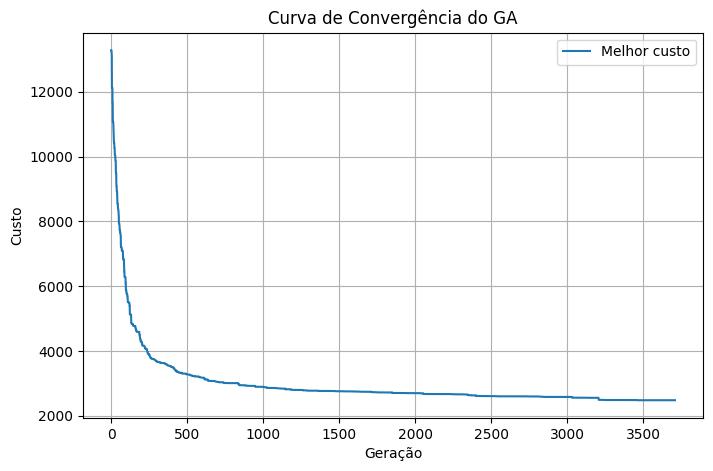
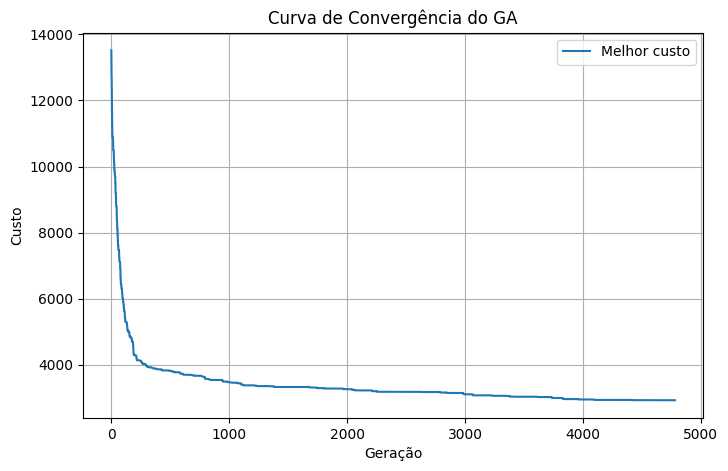
feat: alterando lógica do Npontos

diff --git a/src/main.py b/src/main.py
@@ -1,8 +1,10 @@
 #!/usr/bin/env python3
 """
-main.py: GA básico para Problema do Caixeiro-Viajante 3D usando numpy e matplotlib.
+main.py: GA básico para Problema do Caixeiro-Viajante 3D usando numpy e matplotlib,
+com amostragem de N pontos por região (30 <= N <= 60).
+
 Salve este arquivo e chame:
-    python main.py --data_path data/CaixeiroGrupos.csv --origin_idx 0
+    python main.py --data_path data/CaixeiroGrupos.csv --origin_idx 0 --n_per_region 40
 
 Argumentos configuráveis para parâmetros do GA, tolerância, etc.
 """
@@ -59,7 +61,6 @@ def compute_distance_matrix(coords):
     coords: array Nx3
     Retorna matriz NxN com distâncias Euclidianas 3D.
     """
-    # Usar broadcasting para cálculo eficiente
     diff = coords[:, np.newaxis, :] - coords[np.newaxis, :, :]
     dist = np.sqrt(np.sum(diff**2, axis=2))
     return dist
@@ -75,7 +76,6 @@ def nearest_neighbor_route(origin, dist_matrix):
     route = []
     current = origin
     while unvisited:
-        # escolhe vizinho mais próximo
         next_city = min(unvisited, key=lambda city: dist_matrix[current, city])
         route.append(next_city)
         unvisited.remove(next_city)
@@ -101,8 +101,7 @@ def tournament_selection(population, costs, k):
     """
     selected_idx = random.sample(range(len(population)), k)
     best_idx = min(selected_idx, key=lambda idx: costs[idx])
-    # Retornar uma cópia para segurança
-    return population[best_idx][:]
+    return population[best_idx][:]  # cópia
 
 def order_crossover(parent1, parent2):
     """
@@ -110,18 +109,15 @@ def order_crossover(parent1, parent2):
     - Escolhe dois pontos de corte i<j aleatórios.
     - Copia o segmento parent1[i:j+1] para child1 na mesma posição; preenche restante com genes de parent2 na ordem, pulando duplicados.
     - Análogo para child2.
-    parent1, parent2: listas de mesma dimensão.
-    Retorna child1, child2 (listas).
     """
     size = len(parent1)
-    # Escolher dois pontos distintos
     i, j = sorted(random.sample(range(size), 2))
     child1 = [None] * size
     child2 = [None] * size
     # Copiar segmento
     child1[i:j+1] = parent1[i:j+1]
     child2[i:j+1] = parent2[i:j+1]
-    # Preencher child1 com genes de parent2
+    # Preencher child1
     fill_pos = (j + 1) % size
     idx2 = (j + 1) % size
     while None in child1:
@@ -130,7 +126,7 @@ def order_crossover(parent1, parent2):
             child1[fill_pos] = gene
             fill_pos = (fill_pos + 1) % size
         idx2 = (idx2 + 1) % size
-    # Preencher child2 com genes de parent1
+    # Preencher child2
     fill_pos = (j + 1) % size
     idx1 = (j + 1) % size
     while None in child2:
@@ -144,17 +140,16 @@ def order_crossover(parent1, parent2):
 def mutate_swap(individual):
     """
     Swap mutation: escolhe duas posições aleatórias e troca.
-    individual: lista de índices. Modifica in-place.
     """
     a, b = random.sample(range(len(individual)), 2)
     individual[a], individual[b] = individual[b], individual[a]
 
 def run_ga(origin, dist_matrix,
-           pop_size=200, max_gens=5000,
+           pop_size=100, max_gens=500,
            tournament_k=3, crossover_prob=0.9,
-           mutation_prob=0.05,
+           mutation_prob=0.01,
            elitism=True, elite_size=1,
-           no_improve_window=250,
+           no_improve_window=50,
            use_accept_criterion=True, tol=0.05,
            verbose=False):
     """
@@ -169,58 +164,43 @@ def run_ga(origin, dist_matrix,
     - no_improve_window: janela para parada sem melhora.
     - use_accept_criterion: se True, para caso atinja custo <= custo_NN * (1 - tol).
     - tol: tolerância relativa (e.g. 0.05 para 5% de melhora em relação a heurística NN).
-    Retorna: best_ind, best_cost, history (lista de best_cost por geração), gen_atual, flag_aceitavel (bool).
     """
     n = dist_matrix.shape[0]
-    # Base de índices de pontos exceto origem
     base = [i for i in range(n) if i != origin]
     size_perm = len(base)
-    # Inicializar população aleatória
     population = [random.sample(base, size_perm) for _ in range(pop_size)]
-    # Calcular custos iniciais
     costs = [compute_route_cost(ind, origin, dist_matrix) for ind in population]
-    # Melhor global
     best_cost = min(costs)
     best_ind = population[costs.index(best_cost)][:]
     history = [best_cost]
     gens_no_improve = 0
-    # Heurística NN para critério aceitável, se ativado
     cost_ref = None
     if use_accept_criterion:
         nn_route = nearest_neighbor_route(origin, dist_matrix)
         cost_ref = compute_route_cost(nn_route, origin, dist_matrix)
         if verbose:
             print(f"[GA] Custo referência NN = {cost_ref:.4f}, tol = {tol*100:.1f}%")
-    # Loop de gerações
     for gen in range(1, max_gens+1):
         new_pop = []
-        # Elitismo: copiar top elite_size indivíduos
         if elitism and elite_size > 0:
             sorted_idx = sorted(range(len(population)), key=lambda idx: costs[idx])
             for idx in sorted_idx[:elite_size]:
-                # copia para nova pop
                 new_pop.append(population[idx][:])
-        # Gerar descendentes até completar
         while len(new_pop) < pop_size:
-            # Seleção
             p1 = tournament_selection(population, costs, tournament_k)
             p2 = tournament_selection(population, costs, tournament_k)
-            # Crossover
             if random.random() < crossover_prob:
                 c1, c2 = order_crossover(p1, p2)
             else:
                 c1, c2 = p1[:], p2[:]
-            # Mutação swap
             if random.random() < mutation_prob:
                 mutate_swap(c1)
             if random.random() < mutation_prob and len(new_pop) + 1 < pop_size:
                 mutate_swap(c2)
-            # Adicionar
             new_pop.append(c1)
             if len(new_pop) < pop_size:
                 new_pop.append(c2)
         population = new_pop
-        # Calcular custos
         costs = [compute_route_cost(ind, origin, dist_matrix) for ind in population]
         current_best = min(costs)
         if current_best < best_cost - 1e-12:
@@ -230,29 +210,22 @@ def run_ga(origin, dist_matrix,
         else:
             gens_no_improve += 1
         history.append(best_cost)
-        # Logs periódicos
         if verbose and gen % 50 == 0:
             print(f"[GA] Geração {gen}: melhor custo = {best_cost:.4f}")
-        # Critério de parada: solução aceitável
         if use_accept_criterion and cost_ref is not None:
             if best_cost <= cost_ref * (1 - tol):
                 if verbose:
                     print(f"[GA] Solução aceitável atingida na geração {gen}, custo {best_cost:.4f}")
                 return best_ind, best_cost, history, gen, True
-        # Parada sem melhora
         if gens_no_improve >= no_improve_window:
             if verbose:
                 print(f"[GA] Parada sem melhora em {no_improve_window} gerações (geração {gen}), custo {best_cost:.4f}")
             return best_ind, best_cost, history, gen, False
-    # Se chegou aqui, atingiu max_gens
     if verbose:
         print(f"[GA] Atingiu max_gens ({max_gens}), melhor custo = {best_cost:.4f}")
     return best_ind, best_cost, history, max_gens, False
 
 def plot_convergence(history, show_plot=True, save_path=None):
-    """
-    Plota curva de convergência: melhor custo por geração.
-    """
     plt.figure(figsize=(8,5))
     plt.plot(history, label='Melhor custo')
     plt.xlabel('Geração')
@@ -267,17 +240,11 @@ def plot_convergence(history, show_plot=True, save_path=None):
     plt.close()
 
 def plot_route_3d(coords, route, origin_idx, show_plot=True, save_path=None):
-    """
-    Plota rota em 3D: coords é array Nx3, route é lista de índices incluindo origin no início e no fim.
-    """
     fig = plt.figure(figsize=(8,6))
     ax = fig.add_subplot(111, projection='3d')
-    # plot pontos
     ax.scatter(coords[:,0], coords[:,1], coords[:,2], color='gray', s=10, alpha=0.5)
-    # plot linha da rota
     route_coords = coords[route]
     ax.plot(route_coords[:,0], route_coords[:,1], route_coords[:,2], color='red', linewidth=2)
-    # destacar origem
     ax.scatter(coords[origin_idx,0], coords[origin_idx,1], coords[origin_idx,2],
                color='blue', s=50, label='Origem')
     ax.set_xlabel('X'); ax.set_ylabel('Y'); ax.set_zlabel('Z')
@@ -295,9 +262,12 @@ def main():
                         help='Caminho para o CSV de pontos (colunas X,Y,Z,grupo)')
     parser.add_argument('--origin_idx', type=int, default=0,
                         help='Índice do ponto de origem (linha no CSV, começando em 0)')
+    # Novo argumento: número de pontos a selecionar por região (30 <= n <= 60)
+    parser.add_argument('--n_per_region', type=int, default=None,
+                        help='Número de pontos a selecionar por região (30 <= n <= 60). Se None, usa todos do CSV.')
     # Parâmetros do GA
     parser.add_argument('--pop_size', type=int, default=200, help='Tamanho da população')
-    parser.add_argument('--max_gens', type=int, default=5000, help='Número máximo de gerações')
+    parser.add_argument('--max_gens', type=int, default=8000, help='Número máximo de gerações')
     parser.add_argument('--tournament_k', type=int, default=3, help='Tamanho do torneio')
     parser.add_argument('--crossover_prob', type=float, default=0.9, help='Probabilidade de crossover')
     parser.add_argument('--mutation_prob', type=float, default=0.01, help='Probabilidade de mutação (swap) por indivíduo')
@@ -319,37 +289,88 @@ def main():
 
     # Carregar CSV
     data = load_csv_numpy(args.data_path)
-    # Separar colunas
-    coords = data[:, 0:3]
-    grupo = data[:, 3].astype(int)
-    n_points = coords.shape[0]
-    print(f"[Main] Total de pontos carregados: {n_points}")
-    # Contagem por grupo
-    unique, counts = np.unique(grupo, return_counts=True)
-    print("[Main] Contagem de pontos por grupo:")
+    coords_all = data[:, 0:3]
+    grupo_all = data[:, 3].astype(int)
+    n_total = coords_all.shape[0]
+    print(f"[Main] Total de pontos carregados: {n_total}")
+    # Contagem por grupo no CSV original
+    unique, counts = np.unique(grupo_all, return_counts=True)
+    print("[Main] Contagem de pontos por grupo (arquivo original):")
     for u, c in zip(unique, counts):
         print(f"  Grupo {u}: {c} pontos")
-    # Validar origin_idx
-    origin = args.origin_idx
-    if origin < 0 or origin >= n_points:
-        print(f"[Erro] origin_idx inválido: {origin}. Deve estar em [0, {n_points-1}].")
+
+    # Validar origin_idx no conjunto original
+    origin_orig = args.origin_idx
+    if origin_orig < 0 or origin_orig >= n_total:
+        print(f"[Erro] origin_idx inválido: {origin_orig}. Deve estar em [0, {n_total-1}].")
         sys.exit(1)
-    print(f"[Main] Origem definida: índice {origin}, coordenadas {coords[origin]}")
+    print(f"[Main] Origem escolhida (no CSV original): índice {origin_orig}, coordenadas {coords_all[origin_orig]}")
+
+    # Amostragem por região, se solicitado
+    if args.n_per_region is not None:
+        n_pr = args.n_per_region
+        if not (30 <= n_pr <= 60):
+            print(f"[Erro] n_per_region deve estar entre 30 e 60. Recebido: {n_pr}")
+            sys.exit(1)
+        # Para cada grupo, selecionar exatamente n_pr pontos
+        selected_indices = []
+        # Verificar se origin pertence a algum grupo: precisamos incluí-lo
+        origin_group = grupo_all[origin_orig]
+        for grp in unique:
+            inds = np.where(grupo_all == grp)[0].tolist()
+            if len(inds) < n_pr:
+                print(f"[Erro] Grupo {grp} tem apenas {len(inds)} pontos no CSV, menor que n_per_region={n_pr}.")
+                sys.exit(1)
+            # Se origin está neste grupo, inclua origin e amostre os demais
+            if grp == origin_group:
+                others = [i for i in inds if i != origin_orig]
+                # Sample n_pr-1 de others
+                sampled = random.sample(others, n_pr - 1)
+                sampled.append(origin_orig)
+            else:
+                sampled = random.sample(inds, n_pr)
+            selected_indices.extend(sampled)
+        # Agora, selected_indices contém n_pr de cada grupo, total = n_pr * num_grupos
+        # Opcional: embaralhar a lista para não ficar em blocos, mas não é necessário
+        selected_indices = sorted(selected_indices)  # ou manter ordem original; a ordem aqui não importa para coords
+        # Subset dos dados
+        coords = coords_all[selected_indices]
+        grupo = grupo_all[selected_indices]
+        # Precisamos remapear origin_idx para o novo índice no subset
+        # Encontrar posição de origin_orig em selected_indices
+        origin_idx = selected_indices.index(origin_orig)
+        print(f"[Main] Após amostragem, total de pontos usado: {coords.shape[0]} ({n_pr} por grupo).")
+        print(f"[Main] Novo índice da origem no conjunto amostrado: {origin_idx}")
+    else:
+        # Usa todos
+        coords = coords_all
+        grupo = grupo_all
+        origin_idx = origin_orig
+        print("[Main] Usando todos os pontos do CSV (nenhuma amostragem por região).")
+
+    n_points = coords.shape[0]
+    # Mostrar contagem por grupo no conjunto usado
+    unique2, counts2 = np.unique(grupo, return_counts=True)
+    print("[Main] Contagem de pontos por grupo (conjunto usado):")
+    for u, c in zip(unique2, counts2):
+        print(f"  Grupo {u}: {c} pontos")
+    print(f"[Main] Total de pontos usados para o GA: {n_points}")
+    print(f"[Main] Origem efetiva: índice {origin_idx}, coordenadas {coords[origin_idx]}")
 
     # Matriz de distâncias
     dist_matrix = compute_distance_matrix(coords)
 
     # Heurística Nearest Neighbor para referência
     if args.use_accept_criterion:
-        nn_route = nearest_neighbor_route(origin, dist_matrix)
-        nn_cost = compute_route_cost(nn_route, origin, dist_matrix)
+        nn_route = nearest_neighbor_route(origin_idx, dist_matrix)
+        nn_cost = compute_route_cost(nn_route, origin_idx, dist_matrix)
         print(f"[Main] Heurística NN: custo = {nn_cost:.4f}")
     else:
         nn_cost = None
 
     # Executar GA
     best_ind, best_cost, history, gen_atual, accept_flag = run_ga(
-        origin, dist_matrix,
+        origin_idx, dist_matrix,
         pop_size=args.pop_size,
         max_gens=args.max_gens,
         tournament_k=args.tournament_k,
@@ -380,15 +401,14 @@ def main():
         print(f"[Main] Curva de convergência salva em: {conv_path}")
 
     # Plot da rota final em 3D
-    route_full = [origin] + best_ind + [origin]
+    route_full = [origin_idx] + best_ind + [origin_idx]
     route_path = None
     if out_dir:
         route_path = os.path.join(out_dir, 'route_3d.png')
-    plot_route_3d(coords, route_full, origin, show_plot=True, save_path=route_path)
+    plot_route_3d(coords, route_full, origin_idx, show_plot=True, save_path=route_path)
     if route_path:
         print(f"[Main] Rota 3D salva em: {route_path}")
 
-    # Fim
     print("[Main] Execução concluída.")
 
 if __name__ == '__main__':
